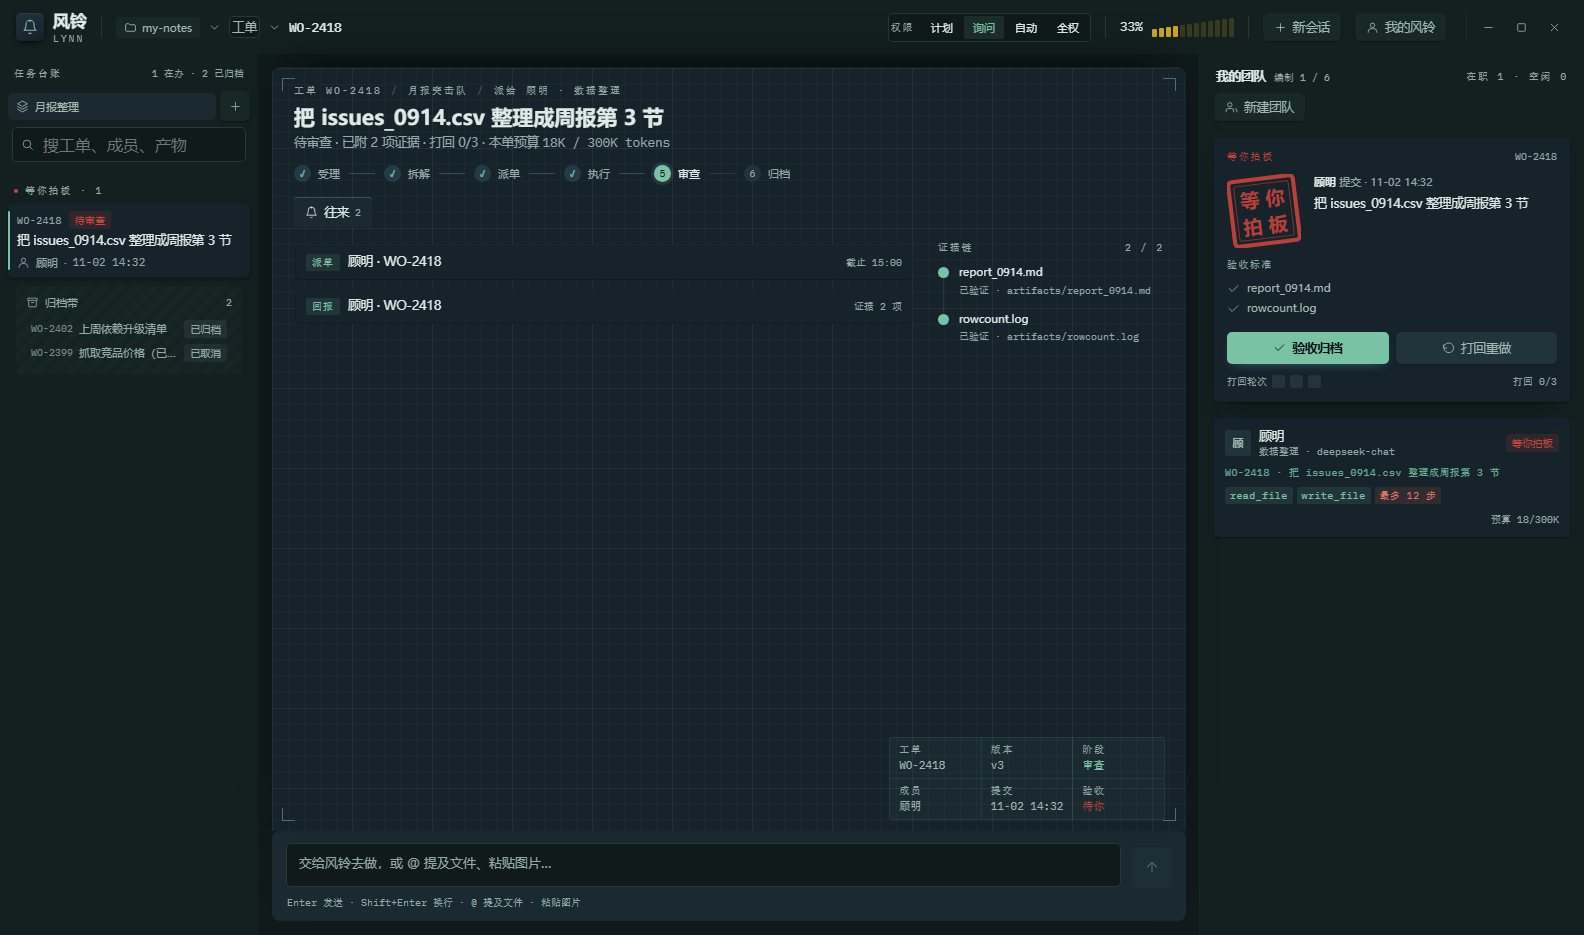
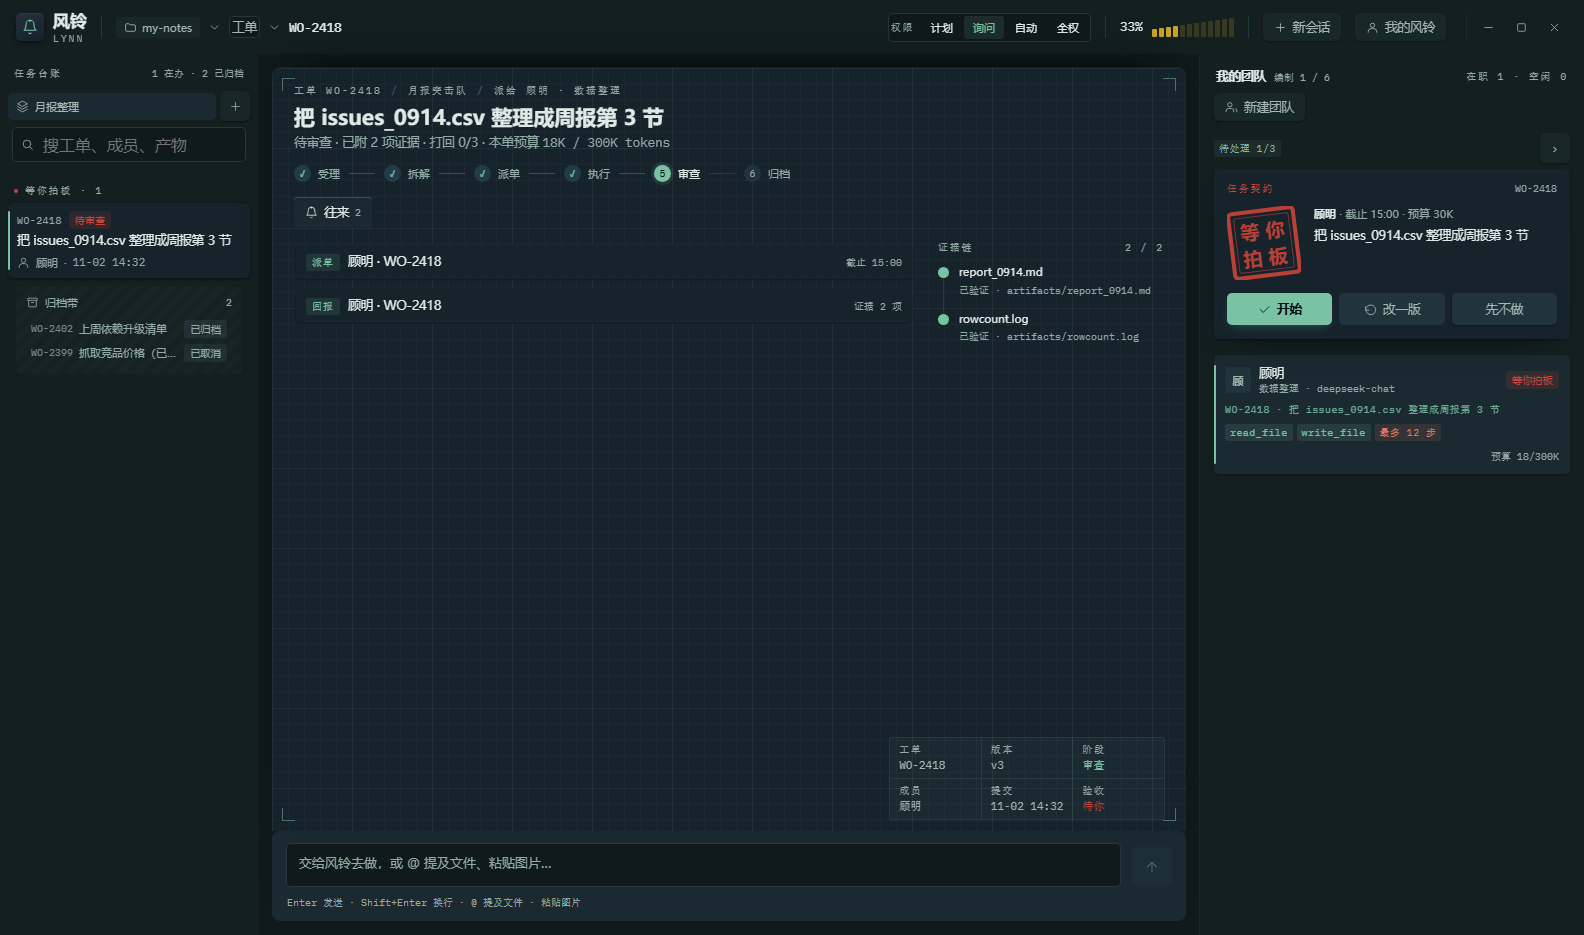
feat(seal): 多条挂起裁决可见可翻（A5）

Changed region(s): [[0.7734, 0.1551, 0.9899, 0.5583], [0.959, 0.5273, 0.9899, 0.5583]]

diff --git a/src/renderer/desk/Desk.tsx b/src/renderer/desk/Desk.tsx
@@ -2,7 +2,7 @@ import { useEffect, useMemo, useRef, useState } from "react";
 import type { FeedCard, PermissionMode, QueueItem } from "../../shared/contract";
 import { Icon, type IconName } from "../components/Icon";
 import { WindowControls } from "../components/WindowControls";
-import type { Desk, DeskDiff, DeskJob, DeskMember } from "./model";
+import type { Desk, DeskDecision, DeskDiff, DeskJob, DeskMember } from "./model";
 import type { JobGroup } from "../../shared/task-groups";
 import { Slot, SandboxAction, SandboxHtml } from "./ui-host";
 import { AmbientLayer } from "./AmbientLayer";
@@ -815,7 +815,11 @@ function Roster({
   const t = useT();
   const active = desk.members.filter((m) => m.status !== "idle");
   const idle = desk.members.filter((m) => m.status === "idle");
-  const decision = desk.decision;
+  // 多条挂起裁决：当前索引钳在有效范围内——处理完一条快照刷新后自动落到下一条（A5）
+  const decisions = desk.decisions;
+  const [dIdx, setDIdx] = useState(0);
+  const dPos = Math.min(dIdx, Math.max(0, decisions.length - 1));
+  const decision = decisions[dPos];
   // 只有 in_review 可验收；blocked 只给"停掉/继续"，绝不出现"验收归档"
   const sealJob = current && current.action !== "none" ? current : desk.jobs.find((j) => j.action !== "none");
   const [naming, setNaming] = useState(false);
@@ -885,6 +889,20 @@ function Roster({
 
         {/* 印章排在最前：它是"该你拍板"的唯一落点，不能藏在成员卡下面要滚动才看见 */}
         <div className="seal-slot">
+          {decisions.length > 1 && (
+            <div className="seal-pager">
+              <span className="chip">{t("seal.pendingCount", { i: dPos + 1, n: decisions.length })}</span>
+              <button
+                type="button"
+                className="icon-btn"
+                aria-label={t("seal.nextDecision")}
+                title={t("seal.nextDecision")}
+                onClick={() => setDIdx((dPos + 1) % decisions.length)}
+              >
+                ›
+              </button>
+            </div>
+          )}
           {decision?.kind === "plan" && decision.plan ? (
             <PlanSeal decision={decision} onPlan={onPlan} />
           ) : decision?.kind === "approval" ? (
@@ -950,7 +968,7 @@ function PlanSeal({
   decision,
   onPlan,
 }: {
-  decision: NonNullable<Desk["decision"]>;
+  decision: DeskDecision;
   onPlan: (id: string, action: "start" | "revise" | "reject", text?: string) => void;
 }) {
   const [revise, setRevise] = useState<string | null>(null);
@@ -1015,7 +1033,7 @@ function ApprovalSeal({
   decision,
   onPlan,
 }: {
-  decision: NonNullable<Desk["decision"]>;
+  decision: DeskDecision;
   onPlan: (id: string, action: "start" | "revise" | "reject", text?: string) => void;
 }) {
   const t = useT();
@@ -1046,7 +1064,7 @@ function QuestionSeal({
   decision,
   onAnswer,
 }: {
-  decision: NonNullable<Desk["decision"]>;
+  decision: DeskDecision;
   onAnswer: (id: string, text: string) => void;
 }) {
   const [text, setText] = useState("");
@@ -1970,7 +1988,7 @@ export function DeskView({
   const [rightOpen, setRightOpen] = useState(false);
   const current = desk.jobs.find((j) => j.id === activeId) ?? waitingFirst;
   const reviewJob = desk.jobs.find((j) => j.id === reviewId);
-  const pendingCount = (desk.decision ? 1 : 0) + desk.jobs.filter((j) => j.action === "accept").length;
+  const pendingCount = desk.decisions.length + desk.jobs.filter((j) => j.action === "accept").length;
 
   useEffect(() => {
     if (!rightOpen) return;

diff --git a/src/renderer/desk/model.ts b/src/renderer/desk/model.ts
@@ -127,7 +127,8 @@ export interface Desk {
   members: DeskMember[];
   /** 未解散的团队数：>1 时成员卡要标出归属，否则同名成员分不清 */
   teamCount: number;
-  decision?: DeskDecision;
+  /** 挂起的裁决（问题/契约/审批）——多条都要可见可翻，不能只露第一条（A5） */
+  decisions: DeskDecision[];
   tokensUsed: number;
   /** 真实对话流（频道 + 每个工单的往来） */
   feed: FeedCard[];
@@ -259,8 +260,6 @@ export function deskFromSnapshot(snap: SessionSnapshot): Desk {
       }),
     );
 
-  const first = board.decisions[0];
-
   return {
     project: snap.workspace.project,
     subdir: snap.workspace.subdir,
@@ -270,7 +269,7 @@ export function deskFromSnapshot(snap: SessionSnapshot): Desk {
       .map((j) => ({ id: j.id, title: j.title, status: j.status })),
     members,
     teamCount: board.teams.filter((t) => t.status !== "dissolved").length,
-    decision: first ? toDecision(first) : undefined,
+    decisions: board.decisions.map(toDecision),
     tokensUsed: board.tokensUsed,
     feed: snap.feed,
     turn: snap.turn,

diff --git a/src/shared/i18n-strings.ts b/src/shared/i18n-strings.ts
@@ -168,6 +168,8 @@ export const ZH_STRINGS: Record<string, string> = {
   "seal.rounds": "打回轮次",
   "seal.roundsFull": "已满，需你决定",
   "seal.roundsUsed": "打回 {a}/{b}",
+  "seal.pendingCount": "待处理 {i}/{n}",
+  "seal.nextDecision": "下一条",
   // 卡住 ≠ 交付：这里只给止损，不给验收
   "seal.blockedHead": "这张单卡住了",
   "seal.blockedBody": "连续两个节点没有交出新证据。可以在指令台说一句让她继续，或者停掉这张单。",
@@ -437,6 +439,8 @@ export const EN_STRINGS: Record<string, string> = {
   "seal.blockedStop": "Stop this job",
   "seal.blockedNote": "Stuck is not delivered — cannot be accepted",
   "seal.roundsUsed": "rejected {a}/{b}",
+  "seal.pendingCount": "Pending {i}/{n}",
+  "seal.nextDecision": "Next",
   "member.turnLimit": "up to {n} steps",
   "member.openJob": "Open job {id}",
   "member.progress": "This run: {n}%",

diff --git a/src/renderer/styles/dispatch.css b/src/renderer/styles/dispatch.css
@@ -609,6 +609,12 @@ svg.ic.lg { width: 20px; height: 20px; }
   background: var(--desk-2);
   padding-top: 2px;
 }
+/* 多条挂起裁决的翻页条：计数 + 下一条（A5） */
+.seal-pager {
+  display: flex; align-items: center; justify-content: space-between;
+  margin-bottom: 6px;
+}
+.seal-pager .icon-btn { font-size: var(--fs-body); line-height: 1; }
 .sealcard-h { display: flex; align-items: center; justify-content: space-between; }
 .sealcard-h .k { font-family: var(--f-mono); font-size: var(--fs-label); letter-spacing: .18em; text-transform: uppercase; color: var(--seal); }
 .sealcard-body { display: flex; gap: 13px; margin-top: 11px; }

diff --git a/src/renderer/desk/Standby.tsx b/src/renderer/desk/Standby.tsx
@@ -71,7 +71,12 @@ export function Standby({
             </>
           )}
         </div>
-        {desk.decision && <div className="sb-decide">{desk.decision.question}</div>}
+        {desk.decisions[0] && (
+          <div className="sb-decide">
+            {desk.decisions[0].question}
+            {desk.decisions.length > 1 ? `（待处理 ${desk.decisions.length}）` : ""}
+          </div>
+        )}
       </div>
       <div className="sb-hint">
         <span className="mono">任意输入回到工作界面</span>
